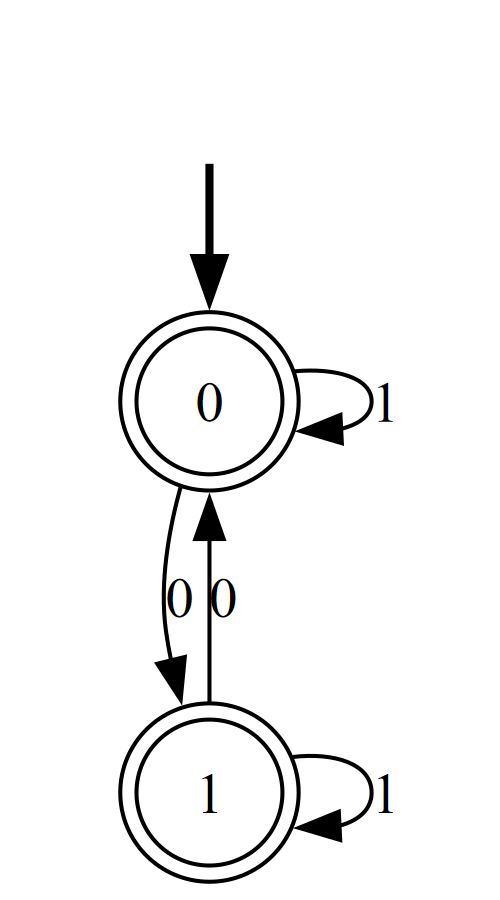
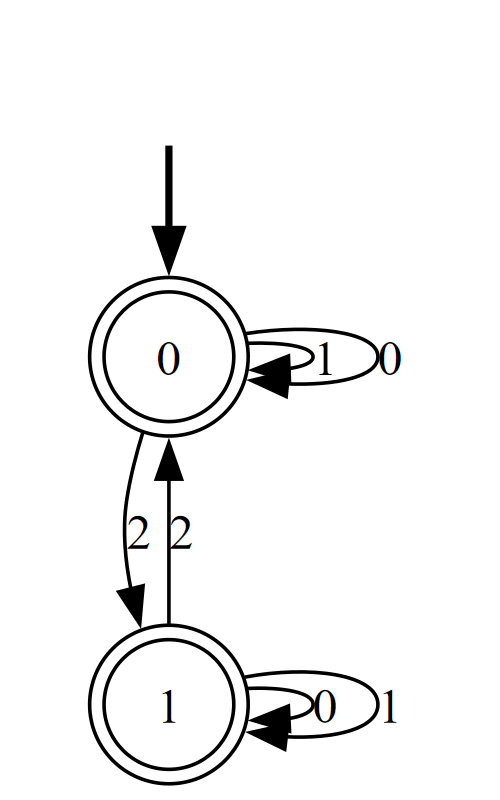
generalizar función de transición

Changed region(s): [[0.15, 0.1562, 0.81, 1.0], [0.33, 0.8438, 0.36, 0.9062]]

diff --git a/ui/LangtoAFD.py b/ui/LangtoAFD.py
@@ -158,16 +158,15 @@ class LangtoAFD(ctk.CTk):
 
             # Usar pythomata para generar automata
             print(automataGenerado.transition_function)
-            funcionTransicion = {
-                '0' : {
-                    '0': '1',
-                    '1':'0' 
-                },
-                '1':{
-                    '0':'0',
-                    '1':'1'
-                }
-            }
+            funcionTransicion = {}
+            for i in range(len(automataGenerado.states)):
+                funcionTransicion[automataGenerado.states[i]] = {}
+
+                for q_i in range(len(automataGenerado.language)):
+                    funcionTransicion[automataGenerado.states[i]][automataGenerado.language[q_i]] = automataGenerado.transition_function[i][q_i]
+            
+            print("REVISAR:", funcionTransicion)
+            
             print(automataGenerado.output_function)
             print(set(automataGenerado.states))
             print(set(automataGenerado.language))
@@ -179,7 +178,7 @@ class LangtoAFD(ctk.CTk):
             graph.render("salida")
 
             # Pasar de svg a png
-            png_data = cairosvg.svg2png(url="salida.svg" , write_to="salida.png",output_width=500, output_height=900)
+            png_data = cairosvg.svg2png(url="salida.svg" , write_to="salida.png",output_width=500, output_height=800)
             self.abrir_nueva_ventana()
             
             
